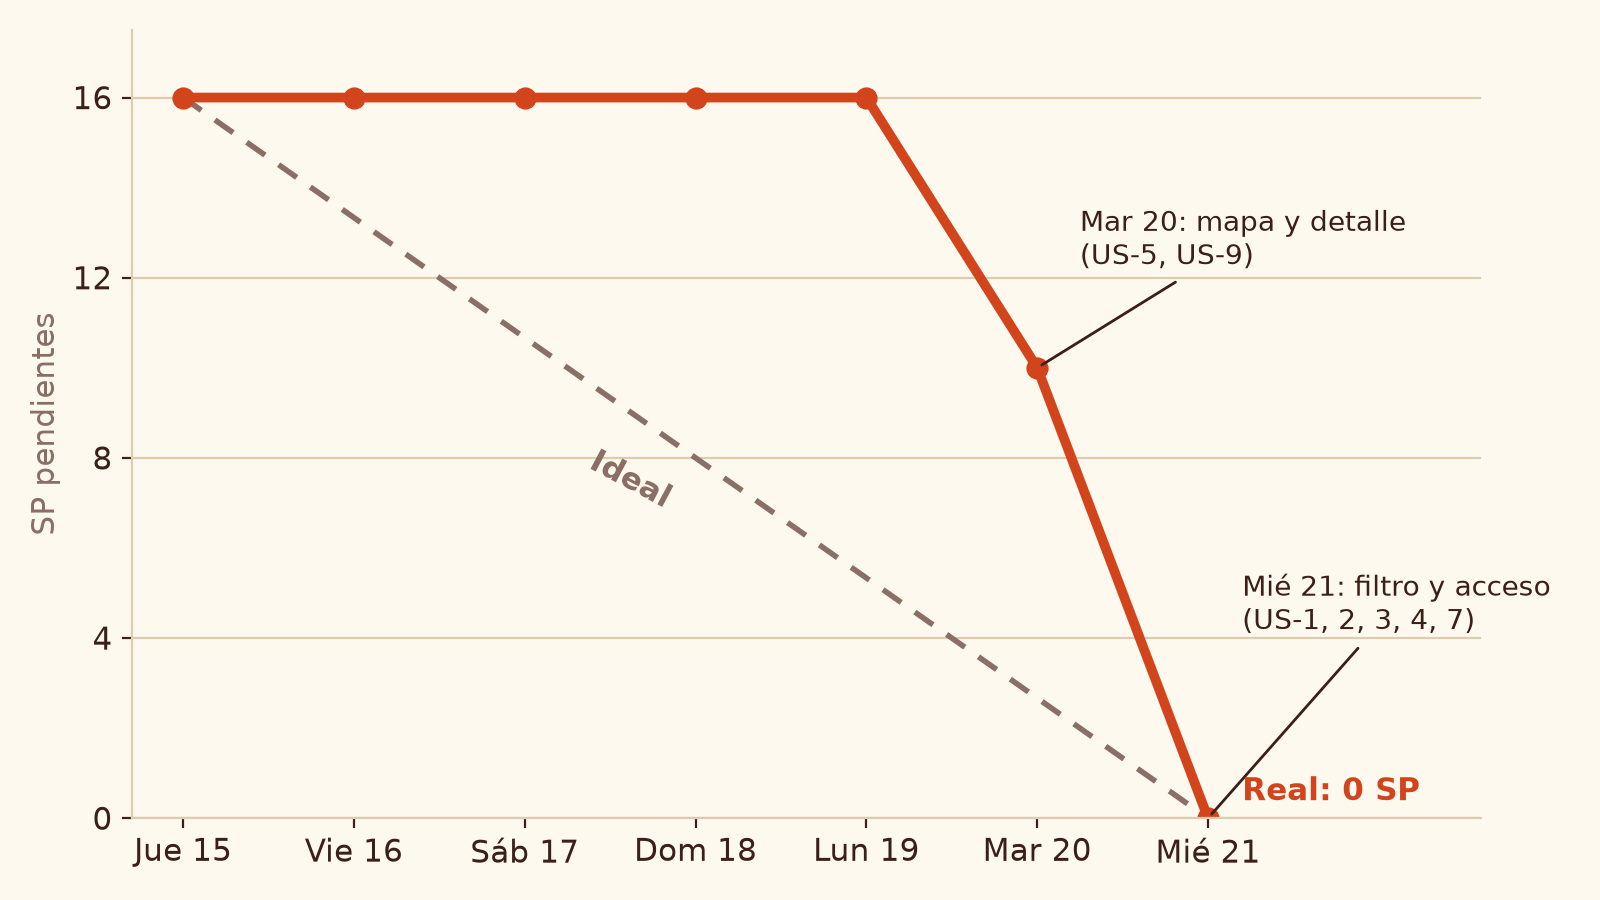
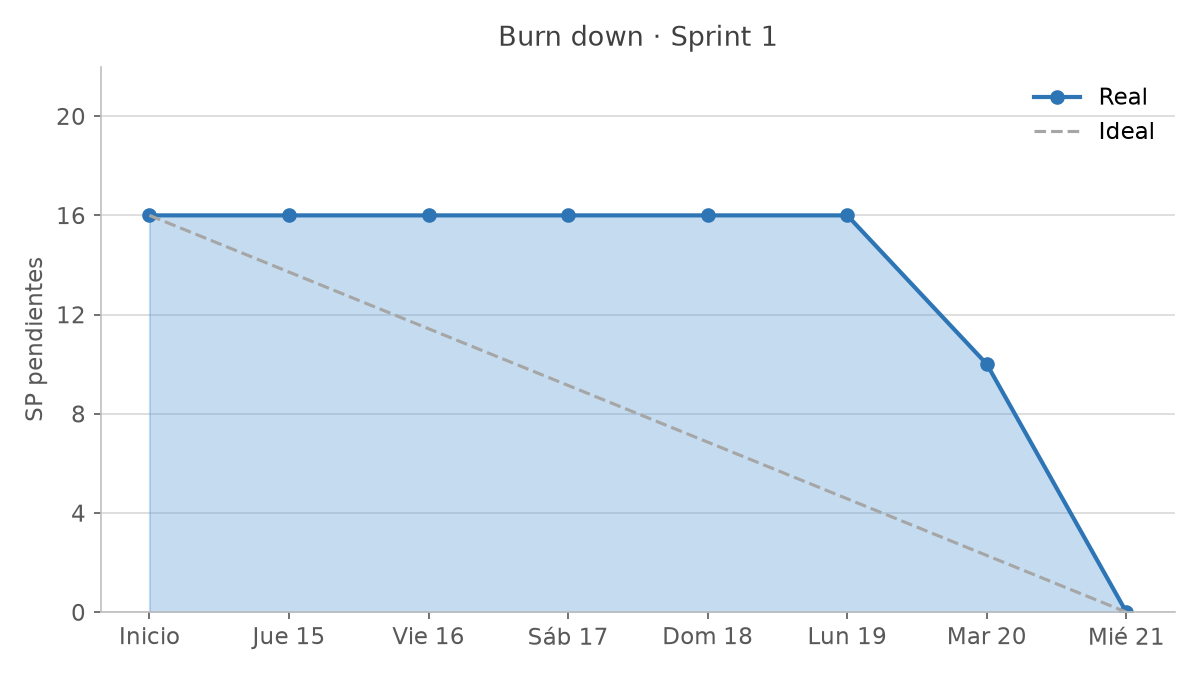
docs(sprint-1): burn down and burn up charts; US-4 has no carryover
The 403 by role is not a carryover: today the restaurant account only
reaches its own panel. Only the Google sign-up criterion of US-2 moves
to US-28. The record points to the Sprint 1 artifacts sheet in Drive.

diff --git a/docs/sprints/sprint-1/README.md b/docs/sprints/sprint-1/README.md
@@ -9,18 +9,21 @@ PM del sprint: Mateo Alvarez. Defensa: miércoles 21/10, 19:00.
 | 1 | Completar formulario de registro (comensal) | 3 | Hecha | 13 |
 | 2 | Ingresar datos obligatorios para registrarme (restaurante) | 3 | Hecha, sin registro con Google | 10 |
 | 3 | Ingresar usuario y contraseña (comensal) | 1 | Hecha | 11 |
-| 4 | Ingresar usuario y contraseña (restaurante) | 1 | Hecha, sin el 403 por rol | 4 |
+| 4 | Ingresar usuario y contraseña (restaurante) | 1 | Hecha | 4 |
 | 5 | Ver mapa de restaurantes | 5 | Hecha | 11 |
 | 7 | Filtrar restaurantes por precios del menú | 2 | Hecha | 25 |
 | 9 | Ver detalle de restaurante | 1 | Hecha | 5 |
 | 33 | Ver listado de restaurantes (adelantada del Sprint 4) | 5 | Hecha | 4 |
 | **Total** | | **21 de 16 planificados** | | **105** (28 backend, 77 frontend; 22 son de componentes sin US) |
 
-**Carryover**: el registro con Google que el backlog menciona en US-2 pasa a US-28 (Sprint 4). El escenario 3 de US-4 (403 con el rol equivocado) se prueba cuando existan endpoints exclusivos de cada rol (Sprint 2). Ver [specs/README.md](../../../specs/README.md#decisiones-del-equipo).
+**Pendiente de US-2**: el criterio "El sistema permite registrarse usando su cuenta de Google" no se hizo y pasa a US-28 (Sprint 4). Ver [specs/README.md](../../../specs/README.md#decisiones-del-equipo).
 
 ## Métricas
 
-![Burndown del Sprint 1](img/burndown.png)
+![Burn down del Sprint 1](img/burndown.png)
+![Burn up del Sprint 1](img/burnup.png)
+
+Los datos y las planillas Sprint n y Avance están en la planilla "Servido! · Sprint 1 · Artefactos" de la carpeta del Sprint 1 en Drive.
 
 - **Velocidad**: 21 SP terminados sobre 16 planificados (131 %), con US-33 adelantada.
 - **Burndown**: plano hasta el lunes. El mapa entró el martes y el filtro y el acceso el miércoles, el día de la demo.

diff --git a/specs/README.md b/specs/README.md
@@ -19,7 +19,7 @@ El flujo completo está en [AGENTS.md](../AGENTS.md#spec-driven-workflow).
 | [005-reservar-mesa](005-reservar-mesa/spec.md) | Comensal | 11, 13 | 5 | 2 (US-11) y 3 (US-13) | ✅ | — | — | — |
 | [006-menu-platos](006-menu-platos/spec.md) | Restaurante | 12 | 3 | 2 | ✅ | — | — | — |
 
-Arrastres de la spec 003: el registro con Google pasa a US-28 (Sprint 4) y el HTTP 403 por rol de US-4 (escenario 3) se prueba en el Sprint 2, cuando existan endpoints exclusivos de cada rol. La spec 002 todavía lee los restaurantes de `frontend/src/data/restaurants.fixture.ts`, hasta que la spec 004 agregue el endpoint.
+Pendiente de la spec 003: el registro con Google pasa a US-28 (Sprint 4). El escenario 3 de US-4 (403 con el rol equivocado) tiene prueba cuando exista el primer endpoint exclusivo de un rol (Sprint 2); hoy la cuenta del restaurante solo accede a su panel. La spec 002 todavía lee los restaurantes de `frontend/src/data/restaurants.fixture.ts`, hasta que la spec 004 agregue el endpoint.
 
 Faltan las specs del resto de las US de los Sprints 3 a 6; del Sprint 3 solo está US-13, en la 005 (ver [backlog](../docs/product/backlog.md)). Según el riesgo 8, conviene tenerlas listas antes para poder adelantar US.
 
